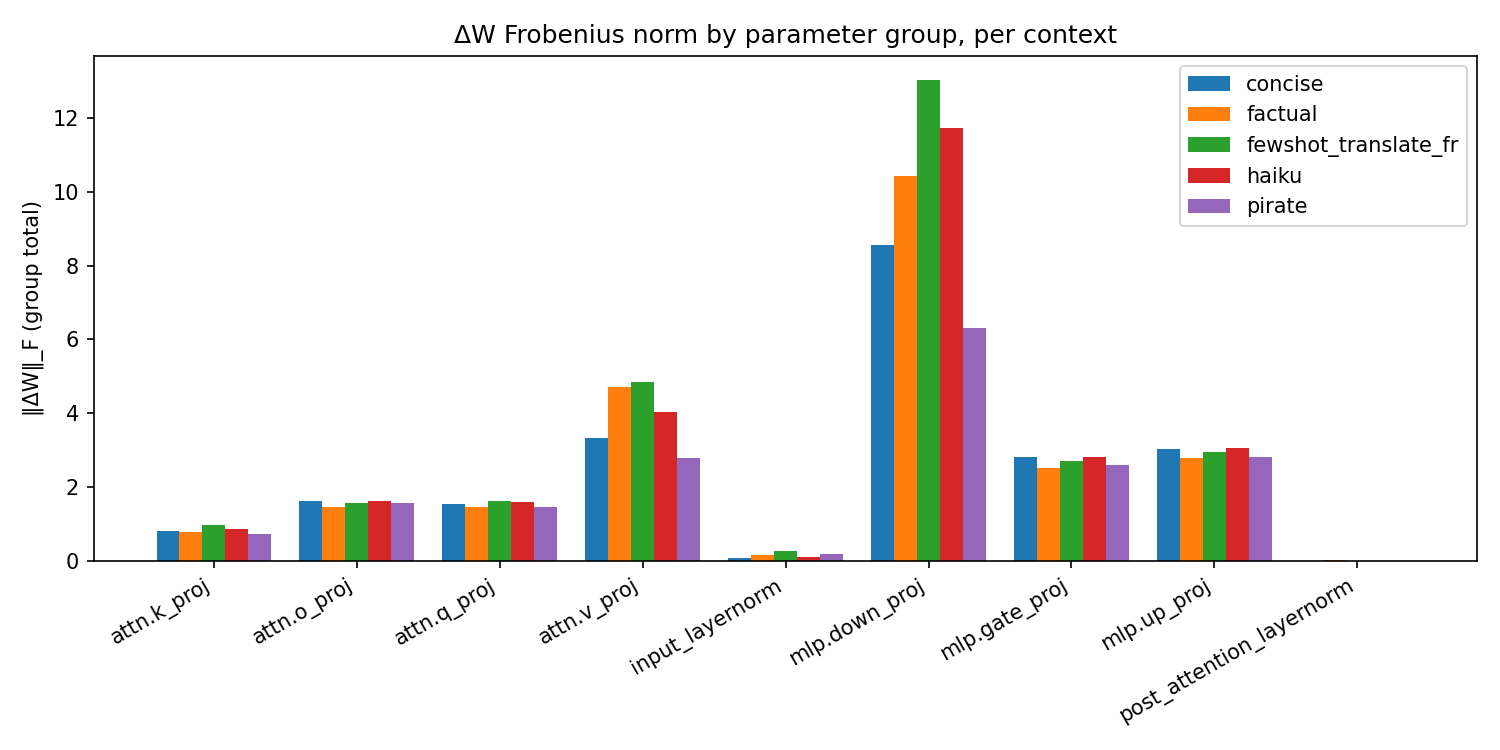
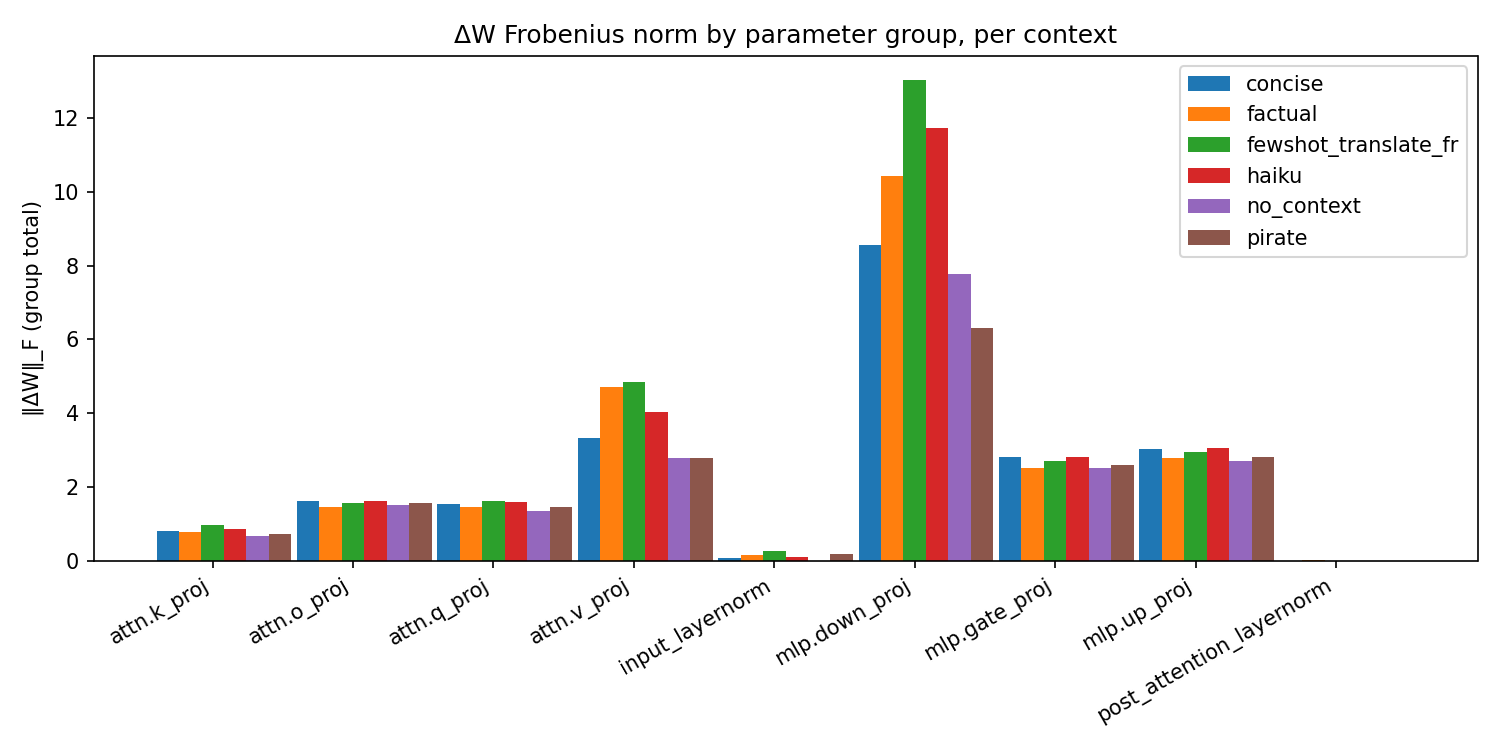
add control: distillation on no-context outputs (no behavior change)
Critical methodological control. Train identical recipe on (Q, A_no_ctx)
where A_no_ctx is the base model's own no-context output for Q.

Result: control has L1 share 63%, total ‖ΔW‖_F = 9.37, mean KL = 0.13.
The L1-share / total-Frob numbers sit WITHIN the range spanned by the
5 contexts. So the layer-1 spike is mostly an optimizer-architecture
artifact, not a signature of context internalisation.

What context-fine-tunes retain as distinguishing:
  - Higher total Frobenius (10.4 - 14.8 vs control's 9.4)
  - Late-layer alignment with v_ctx (control has no analogue)

§4.1 paragraphs added: 'layer-1 concentration is mostly an optimizer
artifact' and 'What is compact, then'. Honest framing.

Also extends triangle.png with v_ctx, v_dw, base norms + cosines.

diff --git a/paper/main.tex b/paper/main.tex
@@ -336,17 +336,13 @@ relatively little update.
 
 \begin{table}[t]
 \centering
-\caption{Where weights moved vs where alignment peaked.
-``Total $\|\Delta W\|_F$'' is the Frobenius norm of $\theta_C - \theta_0$
-over all 8.0\,B parameters.
-``L1 share'' is the fraction of $\|\Delta W\|_F^2$ contributed by layer~1
-(square-of-Frob is additive across disjoint parameter groups, so this is
-the natural decomposition).
-``(L0+L1) share'' adds layer 0.
-``Peak alignment site'' and ``Peak cosine'' are reproduced from
-Table~\ref{tab:peak} for comparison.
-``Hops to peak'' = peak layer~$-$~1, the distance the layer-1
-modification has to propagate before its effect aligns with context.}
+\caption{Where weights moved vs where alignment peaked. ``Total
+$\|\Delta W\|_F$'' is the Frobenius norm of $\theta_C - \theta_0$ over
+all 8.0\,B parameters. ``L1 share'' is the fraction of $\|\Delta W\|_F^2$
+contributed by layer~1 (square-of-Frob is additive across disjoint
+parameter groups). ``(L0+L1) share'' adds layer 0. The bottom row is the
+control: distillation on the base model's own no-context outputs --- a
+fine-tune that has \emph{no} behavior change to internalize.}
 \label{tab:dissociation}
 \small
 \begin{tabular}{lccccc}
@@ -358,6 +354,8 @@ pirate                 &  8.30 & 49.5\% & 61.6\% & L25\_mlp  (0.685) & 24 \\
 concise                & 10.42 & 61.3\% & 72.3\% & L25\_attn (0.674) & 24 \\
 fewshot\_translate\_fr & 14.81 & 76.1\% & 87.6\% & L26\_mlp  (0.670) & 25 \\
 factual                & 12.30 & 68.5\% & 84.3\% & L31\_attn (0.439) & 30 \\
+\midrule
+\textit{control} (no\_context) & 9.37 & 63.0\% & 72.6\% & --- & --- \\
 \bottomrule
 \end{tabular}
 \end{table}
@@ -365,11 +363,31 @@ factual                & 12.30 & 68.5\% & 84.3\% & L31\_attn (0.439) & 30 \\
 Table~\ref{tab:dissociation} sharpens the finding numerically. Layer~1 alone
 holds 50--76\% of the total squared Frobenius mass of $\Delta W$ in every
 context; layers 0--1 together hold 62--88\%. Yet the cosine-aligned site
-sits 24--30 layers downstream. These observations together suggest that
-full fine-tuning on a few hundred $(Q, A)$ pairs finds a \emph{compact}
-solution to context internalisation: a localised modification at the
-model's input-side computation whose forward propagation produces the
-desired late-layer behavior change.
+sits 24--30 layers downstream.
+
+\paragraph{Control: layer-1 concentration is mostly an optimizer artifact.}
+The bottom row of Table~\ref{tab:dissociation} reports a fine-tune of the
+base model on its \emph{own} no-context outputs --- an identical training
+recipe applied to data the model already produces, with essentially no
+behavior to internalize (mean per-token KL between control student and base
+is~$0.13$, an order of magnitude smaller than for the haiku context's
+3.21). Despite that, the control's layer-1 share (63\%) and total Frobenius
+($9.37$) sit \emph{within the range} spanned by the five context
+fine-tunes. The layer-1 spike is therefore largely a property of the
+optimizer-architecture pair, not a signature of context internalisation.
+What context-induced fine-tuning adds is additional weight motion on top of
+this baseline pattern --- $20$--$60\%$ extra Frobenius mass for the
+stylistic contexts --- distributed similarly across layers but with the
+extra coverage that produces the late-layer alignment seen in
+Figure~\ref{fig:alignment}.
+
+\paragraph{What is compact, then.} The honest claim is not that
+context-internalising fine-tunes are compact; it is that \emph{any}
+fine-tune of this model under this recipe lands disproportionately at
+layer 1. The contexts retain their distinguishing signature in the
+\emph{alignment} measurement (Figure~\ref{fig:alignment}), where the
+control has no analogue, and in the magnitude of the additional weight
+motion above the no-op baseline.
 
 \section{Related work}
 \label{sec:related}